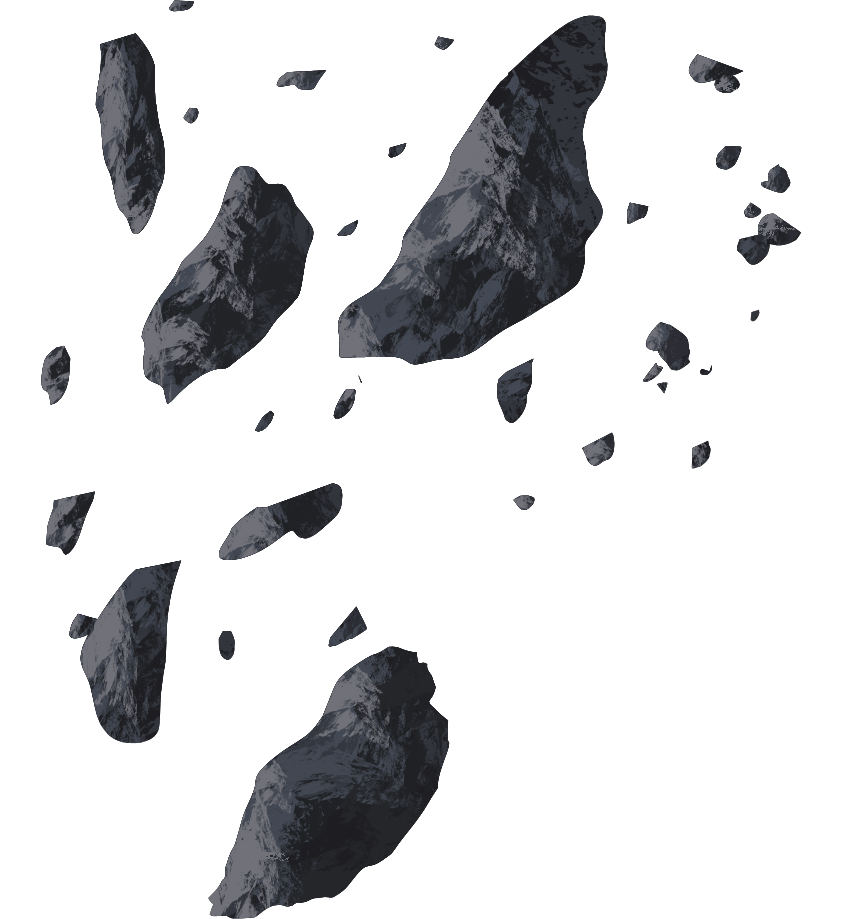
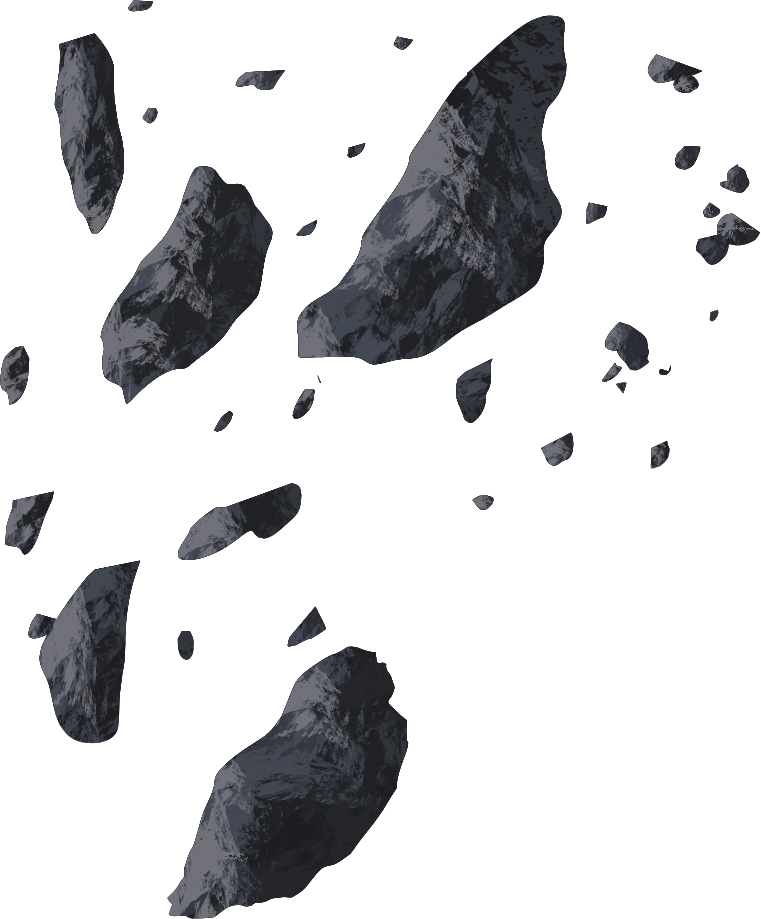
added new assets, improved parallax

diff --git a/index.html b/index.html
@@ -20,11 +20,11 @@
     <div id="wrapper">
       <div id="background"></div>
       <div id="planet"></div>
-      <div id="topAsteroidCluster"></div>
       <div id="rightAsteroids"></div>
+      <div id="frontLeftAsteroids"></div>
       <div id="leftCenterAsteroids"></div>
       <div id="ship"></div>
-      <div id="frontLeftAsteroids"></div>
+      <div id="topAsteroidCluster"></div>
     </div>
 
     <script type="text/javascript">
@@ -52,19 +52,20 @@
 
       function updateObjects() {
         //right
-        ship.css({'margin-left':offset[0]/maxOffset[0]*(w/100), 'margin-top':offset[1]/maxOffset[1]*(h/100)});
-        background.css({'margin-left':offset[0]/maxOffset[0]*(w/300), 'margin-top':offset[1]/maxOffset[1]*(h/300)});
+        ship.css({'margin-left':offset[0]/maxOffset[0]*(w/30), 'margin-top':offset[1]/maxOffset[1]*(h/100)});
+        background.css({'margin-left':offset[0]/maxOffset[0]*(w/450), 'margin-top':offset[1]/maxOffset[1]*(h/450)});
 
         //left
-        planet.css({'margin-left':offset[0]/maxOffset[0]*(-w/150), 'margin-top':offset[1]/maxOffset[1]*(-h/150)});
+        planet.css({'margin-left':offset[0]/maxOffset[0]*(w/400), 'margin-top':offset[1]/maxOffset[1]*(-h/400)});
 
-        frontLeftAsteroids.css({'margin-left':offset[0]/maxOffset[0]*(-w/500), 'margin-bottom':offset[1]/maxOffset[1]*(-h/500)});
+        frontLeftAsteroids.css({'margin-left':offset[0]/maxOffset[0]*(w/200), 'margin-bottom':(offset[1]/maxOffset[1]*(-h/800) + offset[0]/maxOffset[0]*(w/100))});
 
-        rightAsteroids.css({'margin-right':offset[0]/maxOffset[0]*(-w/400), 'margin-bottom':offset[1]/maxOffset[1]*(-h/600)});
+        rightAsteroids.css({'margin-right':offset[0]/maxOffset[0]*(w/80), 'margin-top':(offset[1]/maxOffset[1]*(-h/600) + offset[0]/maxOffset[0]*(w/300))});
 
-        leftCenterAsteroids.css({'margin-left':offset[0]/maxOffset[0]*(-w/600), 'margin-top':offset[1]/maxOffset[1]*(-h/600)});
+        leftCenterAsteroids.css({'margin-left':offset[0]/maxOffset[0]*(-w/20), 'margin-top':offset[1]/maxOffset[1]*(-h/600) + offset[0]/maxOffset[0]*(-w/20)});
 
-        topAsteroidCluster.css({'margin-right':offset[0]/maxOffset[0]*(w/500),'margin-top':offset[1]/maxOffset[1]*(-h/600)});
+        //front front
+        topAsteroidCluster.css({'margin-right':offset[0]/maxOffset[0]*(w/20),'margin-top':(offset[1]/maxOffset[1]*(-h/600))});
 
       }
     

diff --git a/stylesheets/starfield.css b/stylesheets/starfield.css
@@ -47,10 +47,10 @@
 
 #topAsteroidCluster {
   position: absolute;
-  height:80%;
-  width: 60%;
-  right: 5%;
-  top: -5%;
+  height:120%;
+  width: 120%;
+  right: -25%;
+  bottom: -5%;
   padding: none;
   background-position: center;
   background-image: url('../img/SF_Asteroids5.png');
@@ -62,8 +62,8 @@
   position: absolute;
   height:80%;
   width: 75%;
-  left: -12%;
-  bottom: -30%;
+  left: 0;
+  bottom: -5%;
   padding: none;
   background-position: center;
   background-image: url('../img/SF_Asteroids2.png');
@@ -73,10 +73,10 @@
 
 #leftCenterAsteroids {
   position: absolute;
-  height:35%;
-  width: 30%;
-  left: -10%;
-  top: 50%;
+  height:50%;
+  width: 65%;
+  left: 5%;
+  top: 70%;
   padding: none;
   background-image: url('../img/SF_Asteroids3.png');
   background-size: contain;
@@ -85,8 +85,8 @@
 
 #ship {
   position: absolute;
-  height:15%;
-  width: 20%;
+  height:12%;
+  width: 15%;
   left: 50%;
   top: 45%;
   padding: none;
